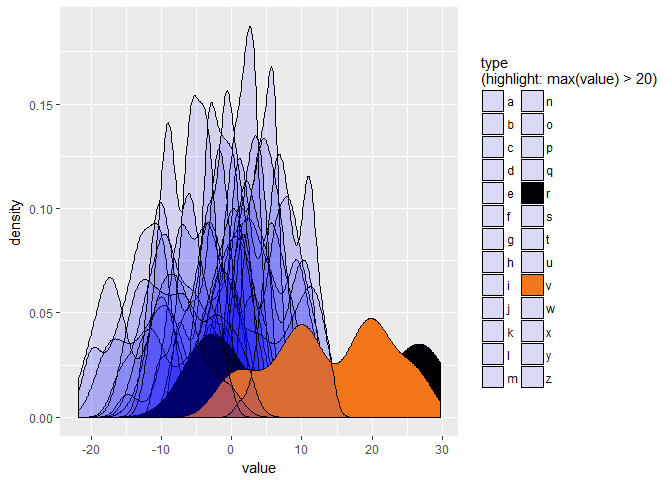
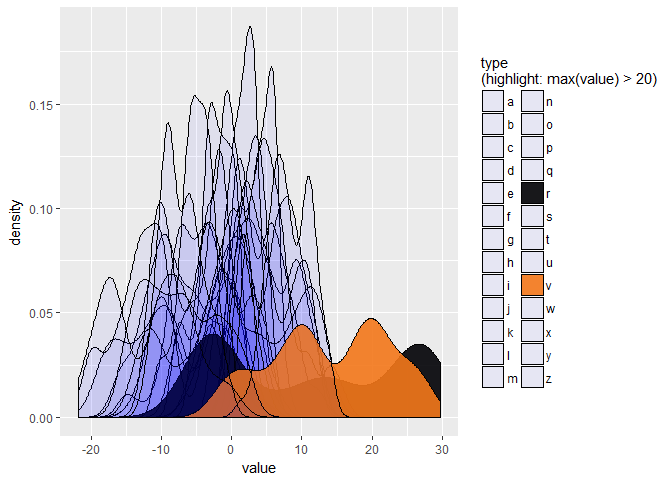
slightly improve default palette

Changed region(s): [[0.0938, 0.3438, 0.4688, 0.875]]

diff --git a/README.md b/README.md
@@ -58,7 +58,7 @@ ggplot(d) +
 ``` r
 ggplot(d) +
   geom_density(aes(value, fill = type)) +
-  scale_highlight_fill(max(value) > 20, .default_colour = ggplot2::alpha("blue", 0.1))
+  scale_highlight_fill(max(value) > 20, .default_colour = ggplot2::alpha("blue", 0.05))
 ```
 
 ![](README-gghighlight-density-1.png)
